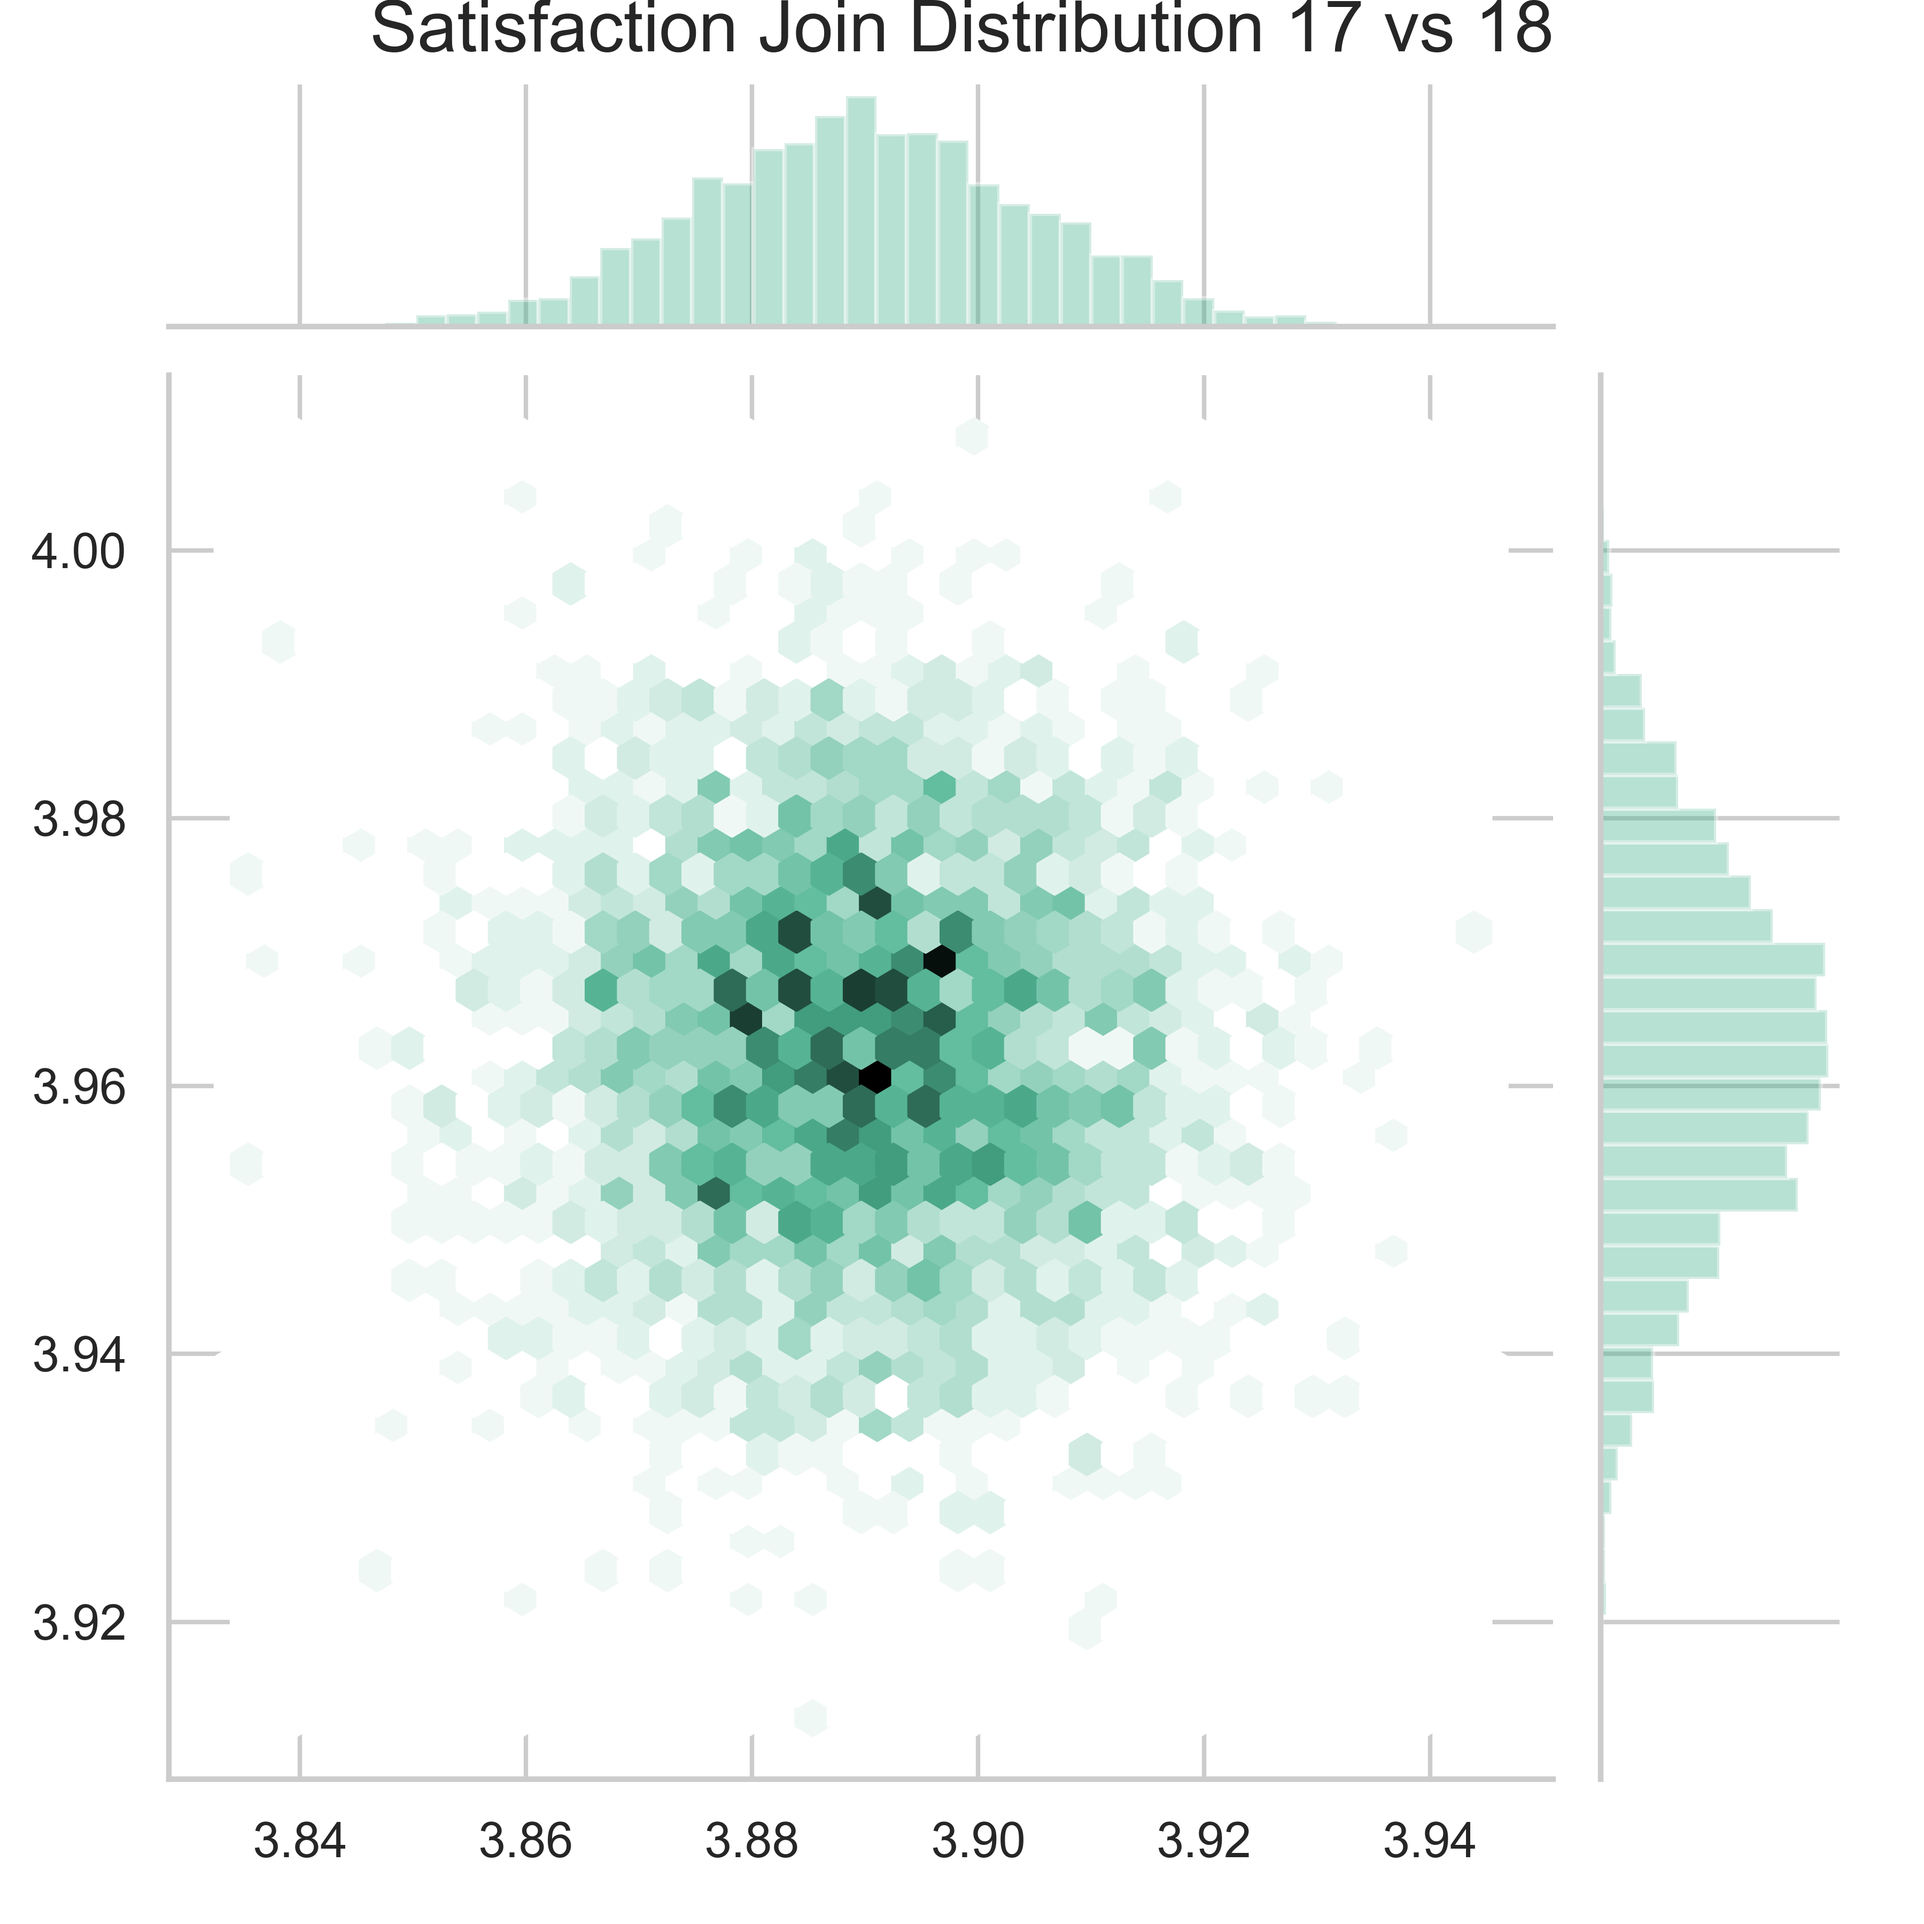
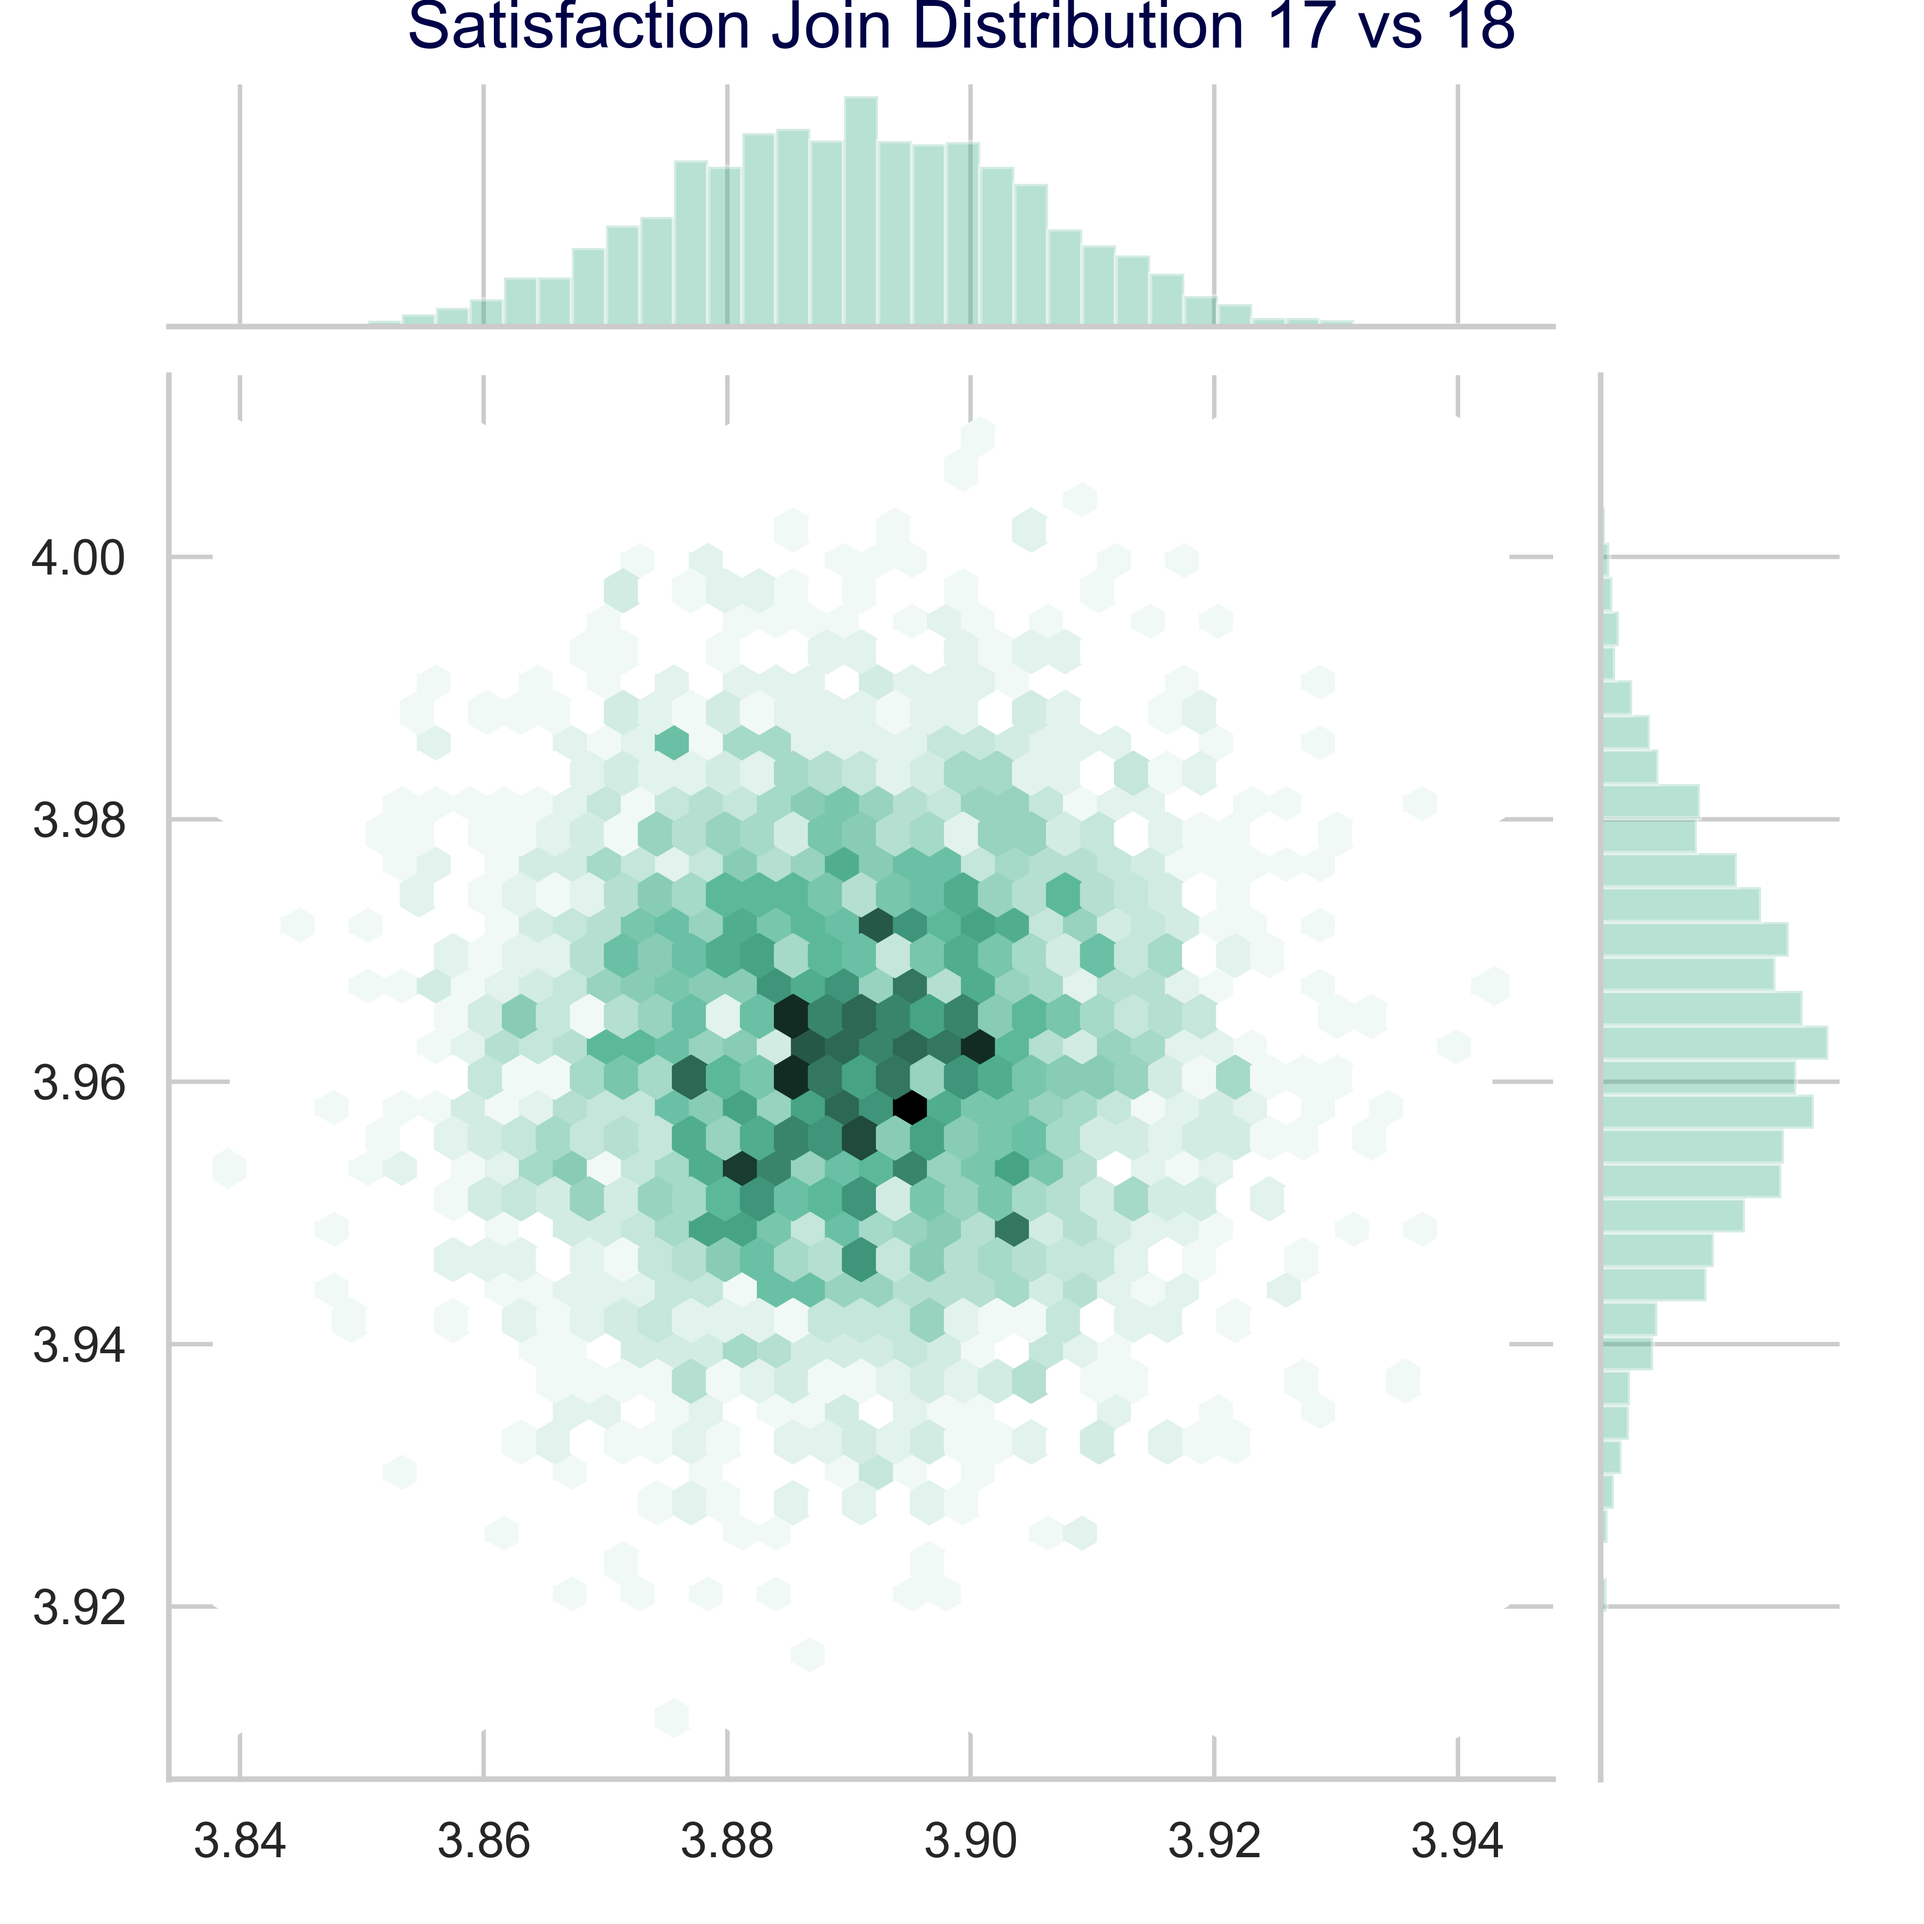
Charts Improvement

diff --git a/index.html b/index.html
@@ -34,7 +34,7 @@
 					<img src="images/back1.jpg" alt="" />
 					<div class="inner">
 						<header>
-							<p>Personal Website to share Data Driven Insights <a href="https://templated.co"> by Tomás Gaviño</a></p>
+							<p>Personal Website to share Data Driven Insights <a href=""> by Tomás Gaviño</a></p>
 							<h2><b>Data Intelligence</b> for All ManKind</h2>
 						</header>
 					</div>
@@ -84,17 +84,16 @@
 
 						<div>
 							<div class="box">
-								<div class="image fit">
-									<img src="images/SatJoinDist.png" alt="" />
-								</div>
 								<div class="content">
 									<header class="align-center">
-										<p>Medical Drugs Pricing Analysis by TG</p>
-										<h2>Which retailer has the lowest drug prices?</h2>
+										<p>Overall vs Own clinic Satisfaction</p>
+										<h2>Does the satisfaction of the general services is related to the local clinic service?</h2>
 									</header>
-									<p>In this section I unveil if a Mexican medical drugs retailer has consistent lower prices than others.
-									Thanks to the Profeco data of the drugs prices 
-									I could analyze several medicines prices to understand if a retailer is giving higher prices for the same medicine than others </p>
+									<div class="image fit">
+										<img src="images/SatJoinDistOwnvsOverall18.png" alt=""/>
+									</div>
+									<p>This chart represent the correlation between the satisfaction level with the local clinic and the overall IMSS service. 
+									   We can see that the satisfaction level with the local service and the overall service perception is positive correlated. </p>
 									<footer class="align-center">
 										<a href="generic.html" class="button alt">Learn More</a>
 									</footer>
@@ -104,16 +103,23 @@
 
 						<div>
 							<div class="box">
-								<div class="image fit">
-									<img src="images/SatisfactionSimulationsbyYear.png" alt="" />
-								</div>
+								
 								<div class="content">
 									<header class="align-center">
 										<p>IMSS satisfaction analysis by Tomas Gaviño</p>
 										<h2>Has the IMSS Satisfaction Improved?</h2>
 									</header>
+
+									<div class="image fit">
+										<img src="images/AllIMSSatisfactionSamplingbyYear.png" alt="" />
+									</div>
 									<p> Every quarter the Mexican Healthcare Institute (IMSS) performs a satisfaction survey among their beneficiaries. 
-										In this analysis I reveal if the IMSS has improved its satisfaction and the main satisfaction variables from the surveys.</p>
+										In this analysis I reveal if the IMSS has improved its satisfaction and the main satisfaction variables from the surveys.
+										We can see in the chart that the average satisfaction is higher but to be sure
+										<strong>we need to perform a T´Students test for identical means</strong>. The test was performed with python and the result is 
+										that the <strong> p-value is lower than .01 which means that we are sure that the satisfaction level for the 2018 was higher than for the 2017</strong>
+									</p>
+
 									<footer class="align-center">
 										<a href="IMSSAnalysis.html" class="button alt">Learn More</a>
 									</footer>
@@ -126,17 +132,17 @@
 			</section>
 
 		<!-- Two -->
-			<section id="two" class="wrapper style3">
+			<!-- <section id="two" class="wrapper style3">
 				<div class="inner">
 					<header class="align-center">
 						<p>Nam vel ante sit amet libero scelerisque facilisis eleifend vitae urna</p>
 						<h2>Morbi maximus justo</h2>
 					</header>
 				</div>
-			</section>
+			</section> -->
 
 		<!-- Three -->
-			<section id="three" class="wrapper style2">
+			<!-- <section id="three" class="wrapper style2">
 				<div class="inner">
 					<header class="align-center">
 						<p class="special">Nam vel ante sit amet libero scelerisque facilisis eleifend vitae urna</p>
@@ -165,7 +171,7 @@
 						</div>
 					</div>
 				</div>
-			</section>
+			</section> -->
 
 
 		<!-- Footer -->
@@ -179,7 +185,7 @@
 					</ul>
 				</div>
 				<div class="copyright">
-					&copy; Untitled. All rights reserved.
+					&copy; Tomás Gaviño. All rights reserved.
 				</div>
 			</footer>
 

diff --git a/IMSSAnalysis.html b/IMSSAnalysis.html
@@ -44,8 +44,8 @@
 					<div class="box">
 						<div class="content">
 							<header class="align-center">
-								<p>maecenas sapien feugiat ex purus</p>
-								<h2>Lorem ipsum dolor</h2>
+								<p>IMSS Satisfaction Analysis by Tomás Gaviño</p>
+								<h2>Statistics says that the IMSS satisfaction has improved</h2>
 							</header>
 
 							<p>Every quarter the <strong>Mexican Instute of Health (IMSS) performs a survey</strong> about the satisfaction of its services.
@@ -56,7 +56,7 @@
 							</p>
 
 							<div class="image fit" >
-								<img src="images/SatisfactionSimulationsbyYear.png" alt=""  height="700" width="1000"/>
+								<img src="images/AllIMSSatisfactionSamplingbyYear.png" alt=""/>
 							</div>					
 
 							<p><br> We can observe that the average satisfaction seams to be higher for the 2015 than for the next year. 2016 and 2017 does not have a relevan increase or decrease.
